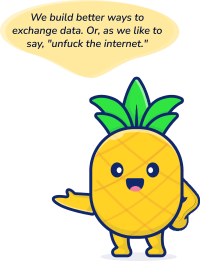
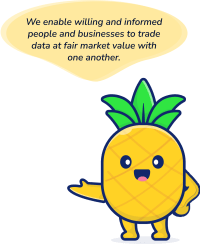
no more "unfucking the internet"

Changed region(s): [[0.0, 0.0, 1.0, 1.0], [0.6, 0.0, 0.72, 0.0287]]

diff --git a/components/about/AboutGraphicCmp.vue b/components/about/AboutGraphicCmp.vue
@@ -9,7 +9,7 @@
       sizes="(max-width: 1400px) 100vw, 1400px"
       srcset="
         ~/assets/images/png/about_pineapple_w_200.png   200w,
-        ~/assets/images/png/about_pineapple_w_894.png   894w,
+        ~/assets/images/png/about_pineapple_w_878.png   878w,
         ~/assets/images/png/about_pineapple_w_1400.png 1400w
       "
       src="~/assets/images/png/about_pineapple_w_1400.png"
@@ -17,13 +17,13 @@
       class="aboutImgImg desktop"
     />
     <img
-      sizes="(max-width: 1400px) 100vw, 1400px"
+      sizes="(max-width: 1400px) 100vw, 1285px"
       srcset="
         ~/assets/images/png/about_pineapple_mobile_w_200.png   200w,
-        ~/assets/images/png/about_pineapple_mobile_w_571.png   571w,
-        ~/assets/images/png/about_pineapple_mobile_w_1156.png 1156w
+        ~/assets/images/png/about_pineapple_mobile_w_575.png   575w,
+        ~/assets/images/png/about_pineapple_mobile_w_1285.png 1285w
       "
-      src="~/assets/images/png/about_pineapple_mobile_w_1156.png"
+      src="~/assets/images/png/about_pineapple_mobile_w_1285.png"
       alt='We build better ways to exchange data. Or, as we like to say, "unfuck the internet."'
       class="aboutImgImg mobile"
     />

diff --git a/components/about/AboutCmp.vue b/components/about/AboutCmp.vue
@@ -41,7 +41,7 @@ export default {
     position: absolute
     height: 350px
     left: 0
-    top: 60vw
+    top: 33%
     right: 0
     display: block
     margin: auto
@@ -54,7 +54,7 @@ export default {
     display: block
 
   .txt
-    max-width: 500px
+    max-width: 425px
     // margin-left: 20%
     margin-right: auto
 
@@ -62,13 +62,12 @@ export default {
     margin-bottom: 40px
 
   .solution
-    margin-top: 225px
+    margin-top: 175px
 
   .graphic
     position: absolute
     // width: 80%
     max-width: 700px
-    top: 60%
+    top: 30%
     right: 0
-    transform: translateY(-50%)
 </style>

diff --git a/components/about/AboutSolutionCmp.vue b/components/about/AboutSolutionCmp.vue
@@ -5,10 +5,6 @@
 
 <template>
   <div>
-    <div class="title">
-      We enable willing and informed people and businesses to trade data at fair
-      market value with one another.
-    </div>
     <div class="text">
       Powered by TIKI's decentralized exchange and built on blockchain
       technology, our tools (SDKs, APIs, and Apps) bring data trade between
@@ -24,9 +20,6 @@ export default {
 </script>
 
 <style scoped lang="sass">
-.title .text
+.text
   font-size: .95em
-
-.title
-  margin-bottom: 20px
 </style>

diff --git a/components/banner/BannerHomeCmp.vue b/components/banner/BannerHomeCmp.vue
@@ -174,6 +174,7 @@ export default {
   .cta
     margin-top: 60px
     justify-content: space-between
+    min-width: 370px
 
   .ctaLeadin
     margin-bottom: 10px
